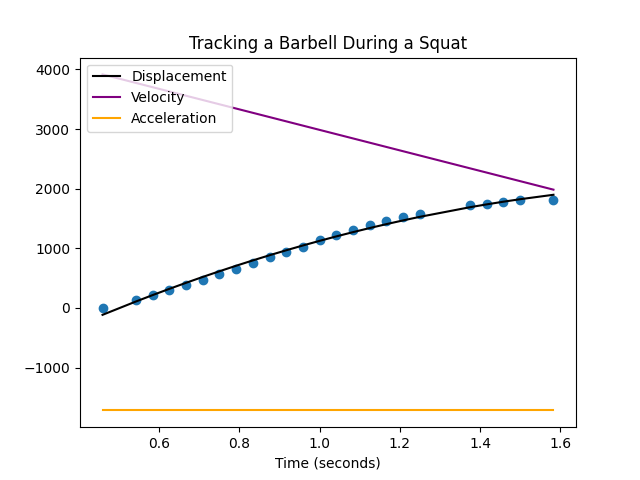
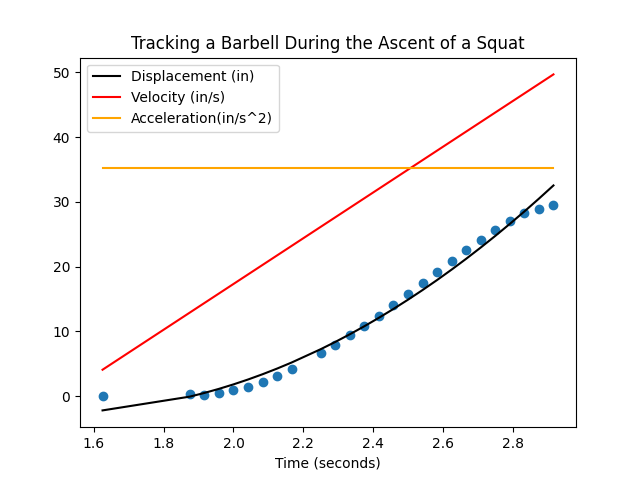
fixed it so that the ascent shows a positive displacment, velocity, and acceleration

diff --git a/src/calc.py b/src/calc.py
@@ -1,28 +1,85 @@
-from turtle import color
 import matplotlib.pyplot as plt
 from typing import Any, List, Tuple, Dict
 import numpy as np
 
-def graph_calculus(y_vals: List, time_vals: List):
-    y_disp = [y - y_vals[0] for y in y_vals]
+# @param y_vals --> the y value of the center of the circle enclosing the fiducial
+# @param time_vals --> tells how much time has elapsed at each frame
+# @param isAScending --> denotes that the object being analyzed is going up. Since the
+#   y coordinates in an image increase going down, the absolute value of the displacement 
+#   needs to be taken. Otherwise, the displacement would be negative which is not what
+#   is actually happening
+def graph_calculus(y_vals: List, time_vals: List, isAscending: bool, title: str):
+    # ~135 pixels = 2 inches (radius of real circle) ==> 67.5 pixels per real world inch
+    ppi = 135/2
+    y_disp = []
+    start_y = pixels_to_inches(y_vals[0], ppi)
+    for y in y_vals:
+        y = pixels_to_inches(y, ppi)
+        if isAscending:
+            y_disp.append(abs(y - start_y))
+        else:
+            y_disp.append(y - start_y)
+            
 
     plt.xlabel("Time (seconds)")
-    plt.title("Tracking a Barbell During a Squat")
+    plt.title(title)
     plt.scatter(time_vals, y_disp)
 
+    #----------------------------------------
     # line of best fit: ax^2 + bx + c
     a, b, c = np.polyfit(time_vals, y_disp, 2)
     print(f"{a}x^2 + {b}x + {c}")
 
     lbf_vals = [ (a * (x**2) + (b * x) + c) for x in time_vals ]
-    plt.plot(time_vals, lbf_vals, color='black', label='Displacement')
+    plt.plot(time_vals, lbf_vals, color='black', label='Displacement (in)')
+    #----------------------------------------
 
+    #----------------------------------------
     # velocity function (1st derivative)
-    velocity_vals = [((2 * a * x) + 4703) for x in time_vals]
-    plt.plot(time_vals, velocity_vals, color='purple', label='Velocity')
+    velocity_vals = [((2 * a * x) + b) for x in time_vals]
+    plt.plot(time_vals, velocity_vals, color='red', label='Velocity (in/s)')
+    #----------------------------------------
 
+    #----------------------------------------
+    # acceleration function (2nd derivative)
     acc_vals = [ 2 * a for _ in time_vals ]
-    plt.plot(time_vals, acc_vals, color='orange', label='Acceleration')
+    plt.plot(time_vals, acc_vals, color='orange', label='Acceleration(in/s^2)')
+    #----------------------------------------
+
+    #----------------------------------------
+    # force = mass * acceleration
+    # m = 95 / 2.2 # lbs --> kg
+    # acc = 2 * a
+    # force_vals = [ m * acc for _ in time_vals]
+
+    # plt.subplot(1, 3, 2)
+    # plt.plot(time_vals, force_vals, color='purple', label='Force')
+    # #----------------------------------------
+
+    # #----------------------------------------
+    # # work = force * displacement
+    # force = m * acc
+
+    # max_y_index = y_disp.index(max(y_disp))
+    # # distance traveled from beginning to maximum
+    # dist_traveled = y_disp[max_y_index] - y_disp[0]
+
+    # if max_y_index < (len(y_disp) - 1):
+    #     # if there is more after the maximum, add it to the total
+    #     dist_traveled += y_disp[max_y_index] - y_disp[len(y_disp) - 1]
+
+    # work_vals = [ force * dist_traveled for _ in time_vals ]
+
+    # plt.subplot(1, 3, 3)
+    # plt.plot(time_vals, work_vals, color='brown', label='Work')
+    #----------------------------------------
+
 
     plt.legend(loc='upper left')
     plt.show()
+
+# @param n = number of pixels (the value being converted to inches)
+# @param ppn = pixels per inch: raidus of the drawn circle / radius of real circle in inches
+# returns value in inches
+def pixels_to_inches(n, ppi):
+    return n / ppi

diff --git a/src/main.py b/src/main.py
@@ -120,19 +120,20 @@ if __name__ == '__main__':
         y_vals.append(val[1])
     
     # graph full results
-    calc.graph_calculus(y_vals, time_vals)
+    calc.graph_calculus(y_vals, time_vals, isAscending=False, title="Tracking a Barbell During a Squat")
     
-    # graph ascent (from start to highest y value aka deepst pat of squat)
+    # graph descent (from start to highest y value aka deepst pat of squat)
     max_y_index = y_vals.index(max(y_vals))
 
-    y_ascent = y_vals[0 : max_y_index]
-    t_ascent = time_vals[0 : max_y_index]
+    y_descent = y_vals[0 : max_y_index]
+    t_descent = time_vals[0 : max_y_index]
 
-    calc.graph_calculus(y_ascent, t_ascent)
+    calc.graph_calculus(y_descent, t_descent, isAscending=False, title="Tracking a Barbell During the Descent of a Squat")
 
-    # graph descent (from highest y value aka deepst pat of squat to end)
-    y_descent = y_vals[max_y_index :]
-    t_descent = time_vals[max_y_index : ]
+    # graph ascent (from highest y value aka deepst pat of squat to end)
+    y_ascent = y_vals[max_y_index :]
+    t_ascent = time_vals[max_y_index : ]
 
-    calc.graph_calculus(y_descent, t_descent)
+    # Why reverse? 
+    calc.graph_calculus(y_ascent, t_ascent, isAscending=True, title="Tracking a Barbell During the Ascent of a Squat")
     

diff --git a/docs/README.md b/docs/README.md
@@ -1,0 +1,1 @@
+# Squat Analysis via Python
